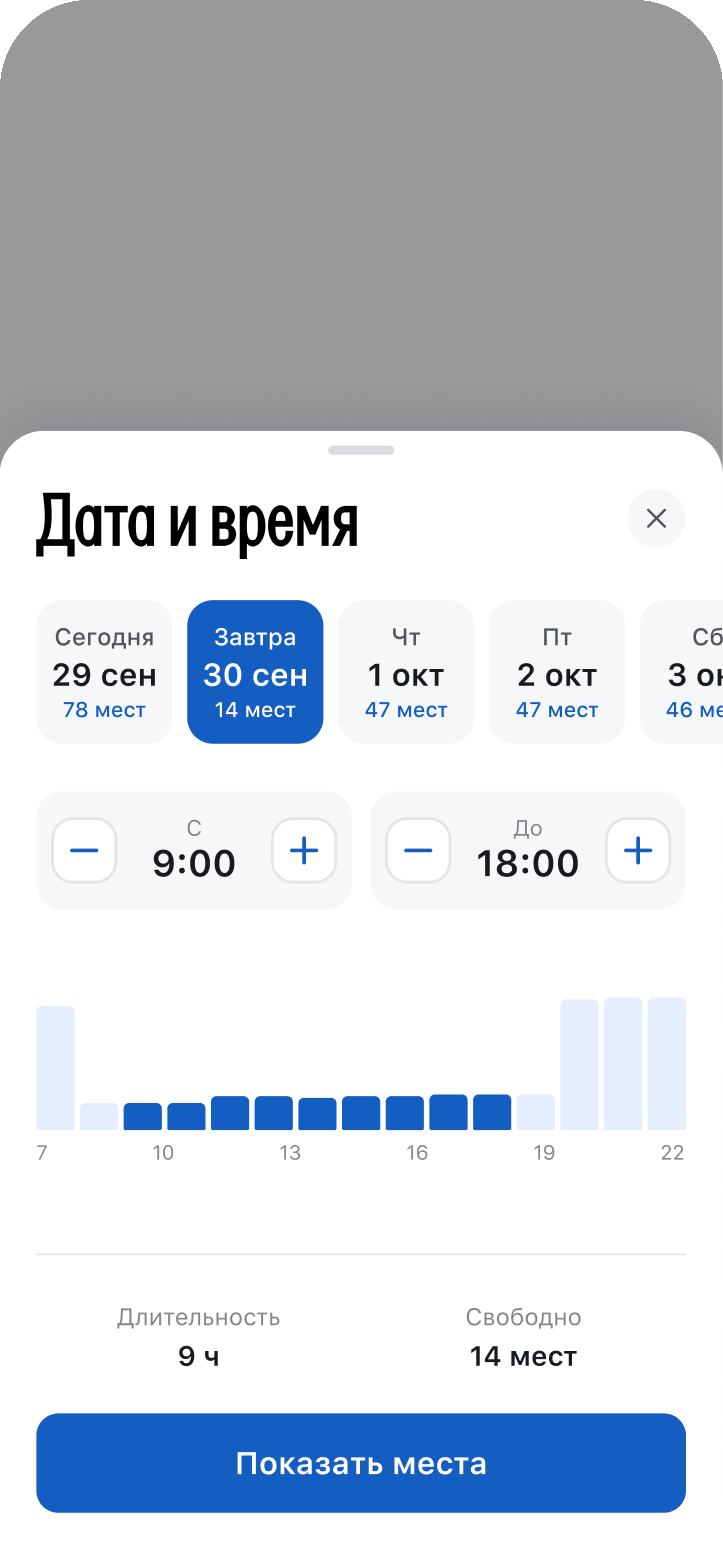
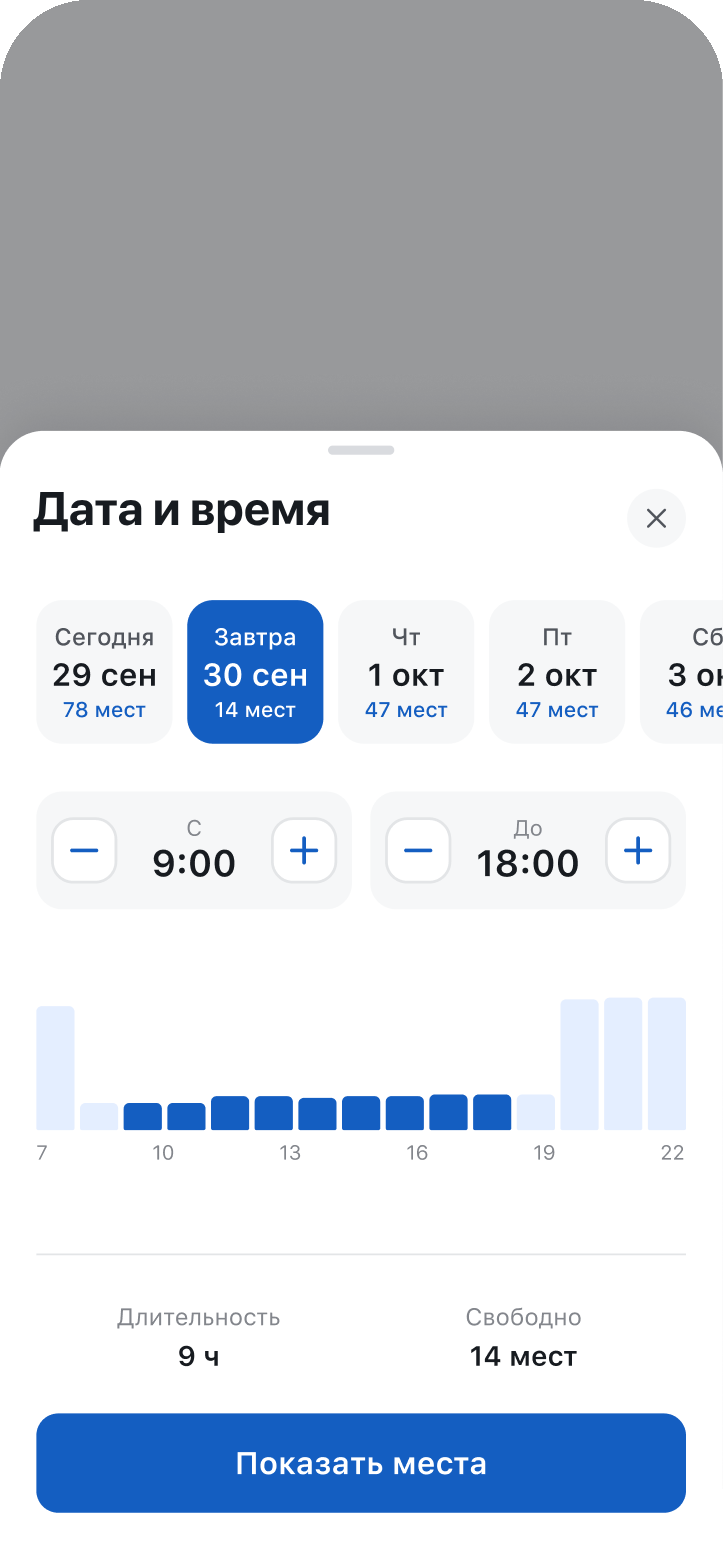
Кейс: слайдер сравнения на всю плашку, шрифт в черновике даты и времени (#2)
* fix(case): вернуть черновику даты и времени заголовок SF Pro

В кадре черновика шторки даты и времени заголовок был набран Lebowski
из финала. Перенабрал SF Pro Display Bold тем же кеглем и отступом,
что «Место 17» в шторке черновика плана.

Claude-Session: https://claude.ai/code/session_0139vpd9aW6UCkXTQQZg3tMX

* feat(case): линия сравнения на всю плашку, тянется до самых краёв

Линия и ручка теперь живут на всей тёмной плашке, а не на телефоне:
идут от верха до низа и уводятся к левому и правому краю. За краем
телефона кадр целиком показывает один вариант.

Claude-Session: https://claude.ai/code/session_0139vpd9aW6UCkXTQQZg3tMX

---------

Changed region(s): [[0.0304, 0.3125, 0.5173, 0.375]]

diff --git a/public/research/index.html b/public/research/index.html
@@ -131,11 +131,11 @@
   /* Черновик → финал: пары кадров на тёмной подложке, как слайды */
   .pairs { max-width: var(--wide); margin: 28px auto 0; padding: 0 20px; display: grid; gap: 48px; }
   .pair { margin: 0; }
-  /* Сравнение: оба кадра в одном телефоне, слева от ручки черновик, справа финал */
-  .pair-shots { display: flex; flex-direction: column; align-items: center; gap: 12px; padding: 28px 28px 20px; background: var(--band); border-radius: 8px; }
-  .pcmp { --x: 50%; position: relative; width: 100%; max-width: 300px; aspect-ratio: 723 / 1568; touch-action: pan-y; user-select: none; -webkit-user-select: none; cursor: ew-resize; }
+  /* Сравнение: оба кадра в одном телефоне, слева от линии черновик, справа финал. Линия ходит по всей плашке */
+  .pair-shots { --x: 50%; position: relative; overflow: hidden; display: flex; flex-direction: column; align-items: center; gap: 12px; padding: 28px 28px 20px; background: var(--band); border-radius: 8px; touch-action: pan-y; user-select: none; -webkit-user-select: none; cursor: ew-resize; }
+  .pcmp { --clip: 50%; position: relative; width: 100%; max-width: 300px; aspect-ratio: 723 / 1568; }
   .pcmp img { position: absolute; inset: 0; width: 100%; height: 100%; pointer-events: none; -webkit-user-drag: none; }
-  .pcmp-was { clip-path: inset(0 calc(100% - var(--x)) 0 0); }
+  .pcmp-was { clip-path: inset(0 calc(100% - var(--clip)) 0 0); }
   .pcmp-bar { position: absolute; top: 0; bottom: 0; left: var(--x); width: 2px; margin-left: -1px; background: #fff; box-shadow: 0 0 0 1px rgba(0, 0, 0, 0.12); pointer-events: none; }
   .pcmp-knob { position: absolute; top: 50%; left: var(--x); width: 42px; height: 42px; margin: -21px 0 0 -21px; border: 0; border-radius: 50%; background: #fff; color: var(--text); box-shadow: 0 4px 16px rgba(0, 0, 0, 0.3); display: grid; place-items: center; cursor: ew-resize; padding: 0; font: 600 16px/1 inherit; letter-spacing: 2px; }
   .pcmp-knob:focus-visible { outline: 2px solid var(--volt); outline-offset: 3px; }
@@ -562,10 +562,10 @@
         <div class="pcmp">
           <img class="pcmp-now" src="img/ui/pair-plan-now.png" alt="Финал плана: время у кнопки в шторке, этажи внизу карты, тонкая линия пути" loading="lazy" width="723" height="1568">
           <img class="pcmp-was" src="img/ui/pair-plan-was.png" alt="Черновик плана: плашка с датой и временем сверху, стрелки на проездах, кнопка на всю ширину" loading="lazy" width="723" height="1568">
-          <span class="pcmp-bar" aria-hidden="true"></span>
-          <button type="button" class="pcmp-knob" role="slider" aria-label="Черновик или финал" aria-valuemin="0" aria-valuemax="100" aria-valuenow="50" aria-valuetext="Поровну"><span aria-hidden="true">‹ ›</span></button>
         </div>
         <div class="pcmp-labels" aria-hidden="true"><span>Черновик</span><span>Финал</span></div>
+        <span class="pcmp-bar" aria-hidden="true"></span>
+        <button type="button" class="pcmp-knob" role="slider" aria-label="Черновик или финал" aria-valuemin="0" aria-valuemax="100" aria-valuenow="50" aria-valuetext="Поровну"><span aria-hidden="true">‹ ›</span></button>
       </div>
       <figcaption>
         <h4>План</h4>
@@ -582,10 +582,10 @@
         <div class="pcmp">
           <img class="pcmp-now" src="img/ui/pair-time-now.png" alt="Финал шторки даты и времени: у графика подпись, выбранные часы на подложке с числом мест" loading="lazy" width="723" height="1568">
           <img class="pcmp-was" src="img/ui/pair-time-was.png" alt="Черновик шторки даты и времени: график без подписей" loading="lazy" width="723" height="1568">
-          <span class="pcmp-bar" aria-hidden="true"></span>
-          <button type="button" class="pcmp-knob" role="slider" aria-label="Черновик или финал" aria-valuemin="0" aria-valuemax="100" aria-valuenow="50" aria-valuetext="Поровну"><span aria-hidden="true">‹ ›</span></button>
         </div>
         <div class="pcmp-labels" aria-hidden="true"><span>Черновик</span><span>Финал</span></div>
+        <span class="pcmp-bar" aria-hidden="true"></span>
+        <button type="button" class="pcmp-knob" role="slider" aria-label="Черновик или финал" aria-valuemin="0" aria-valuemax="100" aria-valuenow="50" aria-valuetext="Поровну"><span aria-hidden="true">‹ ›</span></button>
       </div>
       <figcaption>
         <h4>Дата и время</h4>
@@ -601,10 +601,10 @@
         <div class="pcmp">
           <img class="pcmp-now" src="img/ui/pair-ticket-now.png" alt="Финал пропуска: весь экран зелёный, крупный QR, билет с линией отрыва, отмена внизу" loading="lazy" width="723" height="1568">
           <img class="pcmp-was" src="img/ui/pair-ticket-was.png" alt="Черновик пропуска: зелёная только шапка, маленький QR, отмена сразу под карточкой" loading="lazy" width="723" height="1568">
-          <span class="pcmp-bar" aria-hidden="true"></span>
-          <button type="button" class="pcmp-knob" role="slider" aria-label="Черновик или финал" aria-valuemin="0" aria-valuemax="100" aria-valuenow="50" aria-valuetext="Поровну"><span aria-hidden="true">‹ ›</span></button>
         </div>
         <div class="pcmp-labels" aria-hidden="true"><span>Черновик</span><span>Финал</span></div>
+        <span class="pcmp-bar" aria-hidden="true"></span>
+        <button type="button" class="pcmp-knob" role="slider" aria-label="Черновик или финал" aria-valuemin="0" aria-valuemax="100" aria-valuenow="50" aria-valuetext="Поровну"><span aria-hidden="true">‹ ›</span></button>
       </div>
       <figcaption>
         <h4>Пропуск</h4>
@@ -842,29 +842,32 @@ document.querySelectorAll('.media').forEach((box) => {
   })()
 </script>
 <script>
-  // Сравнение черновика и финала: тянуть ручку, тап по кадру, стрелки на клавиатуре
+  // Сравнение черновика и финала: линию тянут по всей плашке, тап переносит её, стрелки на клавиатуре
   document.querySelectorAll('.pcmp').forEach(cmp => {
-    const knob = cmp.querySelector('.pcmp-knob')
-    const labels = cmp.nextElementSibling.children
-    const set = v => {
-      v = Math.max(0, Math.min(100, v))
-      cmp.style.setProperty('--x', v + '%')
+    const band = cmp.parentElement
+    const knob = band.querySelector('.pcmp-knob')
+    const labels = band.querySelector('.pcmp-labels').children
+    let v = 50
+    const set = n => {
+      v = Math.max(0, Math.min(100, n))
+      const br = band.getBoundingClientRect(), pr = cmp.getBoundingClientRect()
+      const px = br.width * v / 100 - (pr.left - br.left)
+      band.style.setProperty('--x', v + '%')
+      cmp.style.setProperty('--clip', Math.max(0, Math.min(pr.width, px)) + 'px')
+      const share = pr.width ? px / pr.width : 0.5
       knob.setAttribute('aria-valuenow', Math.round(v))
-      knob.setAttribute('aria-valuetext', v > 60 ? 'Больше черновика' : v < 40 ? 'Больше финала' : 'Поровну')
-      labels[0].classList.toggle('on', v > 60)
-      labels[1].classList.toggle('on', v < 40)
-      cmp.dataset.v = v
+      knob.setAttribute('aria-valuetext', share >= 1 ? 'Только черновик' : share <= 0 ? 'Только финал' : share > 0.6 ? 'Больше черновика' : share < 0.4 ? 'Больше финала' : 'Поровну')
+      labels[0].classList.toggle('on', share > 0.6)
+      labels[1].classList.toggle('on', share < 0.4)
     }
-    const at = e => { const r = cmp.getBoundingClientRect(); set((e.clientX - r.left) / r.width * 100) }
-    cmp.addEventListener('pointerdown', e => {
+    const at = e => { const r = band.getBoundingClientRect(); set((e.clientX - r.left) / r.width * 100) }
+    band.addEventListener('pointerdown', e => {
       if (e.button) return
-      at(e); cmp.setPointerCapture(e.pointerId)
-      const move = ev => at(ev)
-      const up = () => { cmp.removeEventListener('pointermove', move); cmp.removeEventListener('pointerup', up); cmp.removeEventListener('pointercancel', up) }
-      cmp.addEventListener('pointermove', move); cmp.addEventListener('pointerup', up); cmp.addEventListener('pointercancel', up)
+      at(e); band.setPointerCapture(e.pointerId)
+      const up = () => { band.removeEventListener('pointermove', at); band.removeEventListener('pointerup', up); band.removeEventListener('pointercancel', up) }
+      band.addEventListener('pointermove', at); band.addEventListener('pointerup', up); band.addEventListener('pointercancel', up)
     })
     knob.addEventListener('keydown', e => {
-      const v = +cmp.dataset.v
       const d = { ArrowLeft: -5, ArrowDown: -5, ArrowRight: 5, ArrowUp: 5, PageDown: -25, PageUp: 25 }[e.key]
       if (d !== undefined) set(v + d)
       else if (e.key === 'Home') set(0)
@@ -872,7 +875,7 @@ document.querySelectorAll('.media').forEach((box) => {
       else return
       e.preventDefault()
     })
-    set(50)
+    new ResizeObserver(() => set(v)).observe(band)
   })
 </script>
 </body>
